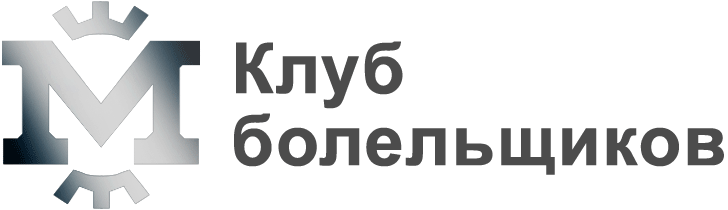
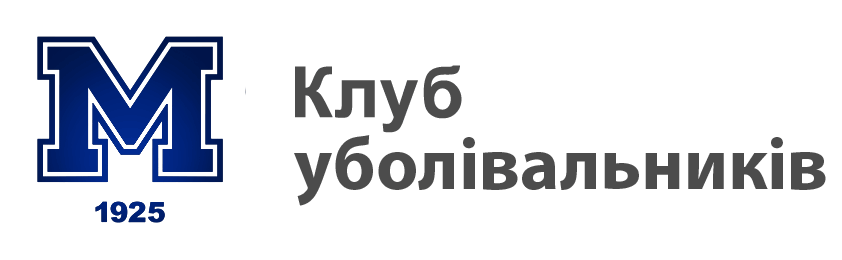
switchStadiumFixNewStyle

Changed region(s): [[0.3022, 0.2, 0.9973, 0.8286], [0.0, 0.0, 0.272, 1.0]]

diff --git a/client/app/home/home.html b/client/app/home/home.html
@@ -1,5 +1,62 @@
 <div class="container">
-  <div class="text-center"><img src="../../assets/images/mxtick.png"></div>
+  <div class="topBigLogo">
+    <svg class="metalistLogo" version="1.1" id="_x31_925" xmlns="http://www.w3.org/2000/svg" xmlns:xlink="http://www.w3.org/1999/xlink" x="0px" y="0px"
+	 viewBox="0 0 172.443 200" enable-background="new 0 0 172.443 200" xml:space="preserve">
+<path id="back" fill="#FFFA16" d="M163.191,17.227l-0.307-0.739l-0.69-0.404C161.07,15.427,134.121,0.015,86.254,0h-0.065
+	C38.323,0.015,11.374,15.427,10.25,16.083l-0.691,0.404l-0.307,0.739C8.874,18.138,0,39.926,0,72.639
+	c0,20.689,4.488,40.258,13.342,58.166c7.074,14.309,16.93,27.581,29.295,39.449c21.023,20.177,41.743,29.18,42.616,29.554
+	L85.701,200h1.042l0.448-0.192c0.872-0.374,21.592-9.377,42.616-29.554c12.364-11.868,22.22-25.141,29.294-39.449
+	c8.853-17.907,13.342-37.477,13.342-58.166C172.443,39.926,163.569,18.138,163.191,17.227z"/>
+<path id="front" fill="#001446" d="M160.995,18.137c0,0-26.978-15.752-74.772-15.759C38.425,2.385,11.449,18.137,11.449,18.137
+	S2.378,40.022,2.378,72.639c0,89.085,83.81,124.983,83.81,124.983h0.066c0,0,83.811-35.897,83.811-124.983
+	C170.065,40.022,160.995,18.137,160.995,18.137z M157.882,20.855c0,0,1.896,4.64,3.918,12.812
+	c-2.481-1.425-5.977-3.271-10.447-5.241c-1.203-5.118-2.38-9.25-3.254-12.093C154.529,18.872,157.882,20.855,157.882,20.855z
+	 M29.435,14.452C41.559,10.26,60.82,5.555,86.221,5.551c-0.011,0-0.021,0-0.031,0h0.063c-0.011,0-0.021,0-0.032,0
+	c25.401,0.004,44.663,4.709,56.786,8.901c0.47,1.475,1.762,5.691,3.229,11.849c-13.625-5.339-33.919-10.789-60.015-10.794
+	c-26.106,0.005-46.405,5.458-60.03,10.8C27.723,19.894,29.054,15.635,29.435,14.452z M14.561,20.855c0,0,3.352-1.983,9.779-4.521
+	c-0.862,2.788-2.049,6.925-3.267,12.1c-4.462,1.967-7.953,3.81-10.431,5.233C12.664,25.495,14.561,20.855,14.561,20.855z
+	 M5.868,73.786c0-13.855,1.663-25.716,3.534-34.677c0.593-0.425,4.222-2.961,10.651-6.11c-2.245,10.622-4.31,24.504-4.31,39.653
+	c0,70.715,42.81,105.89,61.687,117.963C56.607,178.682,5.868,142.55,5.868,73.786z M86.248,193.095h-0.052
+	c0,0-65.861-31.175-65.861-119.274c0-16.751,2.484-32.204,4.872-43.192c13.006-5.62,33.702-11.944,61.009-11.949
+	c27.307,0.005,48.002,6.329,61.008,11.949c2.4,11.042,4.886,26.506,4.886,43.191C152.109,161.92,86.248,193.095,86.248,193.095z
+	 M95.02,190.61c18.88-12.077,61.68-47.251,61.68-117.958c0-15.079-2.068-28.975-4.326-39.654c6.495,3.181,10.132,5.736,10.669,6.123
+	c1.87,8.959,3.532,20.816,3.532,34.666C166.575,142.542,115.848,178.674,95.02,190.61z M136.544,113.71h-34.091V95.192h5.462V70.62
+	L89.98,97.787h-7.517L64.527,70.62v24.573h5.463v18.518H35.898V95.192h6.857V54.475h-6.857V35.958h28.03l22.294,33.767
+	l22.292-33.767h28.03v18.517h-6.857v40.718h6.857V113.71z M105.048,111.115h28.901V97.787h-6.857V51.88h6.857V38.552h-24.039
+	L86.222,74.433l-23.69-35.881h-24.04V51.88h6.857v45.907h-6.857v13.328h28.903V97.787h-5.463V61.982l21.926,33.21h4.725
+	l21.927-33.21v35.805h-5.462V111.115z M153.775,76.479c0.273-6.741,0.361-13.727-0.175-17.442
+	c-1.974-13.678-4.837-29.047-4.837-29.047s-36.592-14.324-62.542-13.556c-25.95-0.768-62.542,13.556-62.542,13.556
+	s-2.863,15.37-4.837,29.047c-0.537,3.715-0.448,10.701-0.175,17.442c-0.306,2.621-0.469,5.286-0.469,7.989
+	c0,22.843,11.261,43.055,28.533,55.391v20.454l11.347,12.352v-26.253c6.608,3.008,13.783,4.989,21.32,5.74v37.77l6.797,3.892
+	l6.852-3.892v-37.77c7.536-0.751,14.71-2.732,21.318-5.739v26.252l11.347-12.352v-20.454c17.272-12.336,28.533-32.548,28.533-55.391
+	C154.245,81.764,154.082,79.1,153.775,76.479z M72.88,140.169h-3.268v-7.75c-0.529,0.401-1.041,0.727-1.535,0.976
+	c-0.495,0.249-1.115,0.486-1.86,0.714v-2.65c1.1-0.354,1.954-0.779,2.562-1.276s1.084-1.11,1.428-1.841h2.673V140.169z
+	 M83.214,138.904c-0.883,0.976-2.108,1.464-3.673,1.464c-0.926,0-1.656-0.107-2.19-0.321c-0.534-0.215-0.979-0.528-1.333-0.94
+	c-0.354-0.412-0.626-0.929-0.816-1.547l3.213-0.405c0.084,0.45,0.227,0.768,0.428,0.953c0.201,0.185,0.447,0.277,0.737,0.277
+	c0.519,0,0.923-0.262,1.215-0.785c0.211-0.387,0.37-1.203,0.475-2.451c-0.386,0.396-0.782,0.687-1.19,0.872
+	c-0.407,0.185-0.877,0.277-1.412,0.277c-1.042,0-1.921-0.369-2.638-1.11c-0.717-0.74-1.075-1.677-1.075-2.809
+	c0-0.771,0.182-1.476,0.547-2.11c0.365-0.634,0.868-1.115,1.508-1.439c0.639-0.325,1.443-0.488,2.412-0.488
+	c1.163,0,2.097,0.2,2.8,0.6s1.265,1.033,1.686,1.903c0.421,0.87,0.631,2.019,0.631,3.447
+	C84.539,136.391,84.097,137.928,83.214,138.904z M94.995,140.169H85.3c0.11-0.956,0.448-1.856,1.011-2.7s1.62-1.84,3.17-2.987
+	c0.946-0.703,1.552-1.238,1.816-1.603c0.264-0.365,0.396-0.711,0.396-1.04c0-0.354-0.131-0.656-0.393-0.907
+	c-0.262-0.252-0.591-0.378-0.988-0.378c-0.412,0-0.75,0.13-1.012,0.39c-0.262,0.259-0.438,0.716-0.526,1.372l-3.237-0.262
+	c0.127-0.909,0.36-1.62,0.697-2.13c0.339-0.511,0.816-0.901,1.433-1.175c0.616-0.271,1.47-0.408,2.559-0.408
+	c1.137,0,2.021,0.13,2.653,0.389c0.633,0.26,1.13,0.657,1.491,1.194c0.362,0.536,0.544,1.139,0.544,1.805
+	c0,0.709-0.207,1.386-0.623,2.031c-0.414,0.646-1.169,1.354-2.265,2.125c-0.65,0.45-1.085,0.765-1.305,0.944
+	s-0.478,0.416-0.773,0.706h5.046V140.169z M105.667,138.233c-0.373,0.693-0.901,1.223-1.586,1.587
+	c-0.687,0.365-1.563,0.548-2.631,0.548c-0.767,0-1.424-0.073-1.971-0.219c-0.548-0.145-1.013-0.361-1.396-0.65
+	c-0.384-0.288-0.694-0.615-0.933-0.979c-0.237-0.365-0.437-0.819-0.595-1.365l3.269-0.356c0.08,0.523,0.265,0.922,0.555,1.194
+	c0.292,0.271,0.638,0.408,1.04,0.408c0.449,0,0.82-0.171,1.114-0.512c0.293-0.342,0.44-0.85,0.44-1.527
+	c0-0.692-0.147-1.2-0.444-1.523c-0.296-0.322-0.689-0.483-1.183-0.483c-0.312,0-0.612,0.076-0.904,0.23
+	c-0.217,0.11-0.454,0.312-0.713,0.603l-2.754-0.396l1.023-6.252h7.672v2.578h-5.196l-0.277,1.745
+	c0.359-0.168,0.715-0.296,1.067-0.381c0.351-0.084,0.699-0.126,1.043-0.126c1.163,0,2.107,0.351,2.832,1.055
+	c0.725,0.703,1.087,1.589,1.087,2.657C106.226,136.819,106.04,137.541,105.667,138.233z M139.787,57.717h-6.857V91.95h6.857v25.002
+	H99.21V91.95h5.463V81.417l-12.949,19.612H80.718L67.77,81.417V91.95h5.463v25.002H32.656V91.95h6.857V57.717h-6.857V32.715h33.017
+	l20.549,31.124l20.548-31.124h33.017V57.717z M80.675,130.892c0.317,0.356,0.476,0.85,0.476,1.479c0,0.618-0.151,1.095-0.453,1.429
+	c-0.301,0.332-0.68,0.499-1.134,0.499c-0.439,0-0.806-0.172-1.099-0.516c-0.294-0.344-0.441-0.841-0.441-1.491
+	c0-0.646,0.142-1.129,0.425-1.452c0.283-0.322,0.639-0.483,1.067-0.483C79.972,130.356,80.357,130.534,80.675,130.892z"/>
+</svg>
+  </div>
   <h4 class="page-header">Следующие матчи</h4>
   <div class="row">
     <div class="matches">

diff --git a/client/app/match-details/match-details.html b/client/app/match-details/match-details.html
@@ -1,7 +1,14 @@
 <div class="col-xs-4 matchDate"><h3 style="text-align: left; font-weight: bold">
   {{ $ctrl.matchDetails.formattedDate }}<br>{{ $ctrl.matchDetails.time }}</h3></div>
 <div class="col-xs-4 matchRival" style="text-align: center"><h3>Металлист 1925<br>{{ $ctrl.matchDetails.rival }}</h3></div>
-<div class="col-xs-4 address" style="text-align: right"><span>Стадион Металлист<br>ул. Плехановская, 65</span>
+<div ng-show = "$ctrl.matchDetails.priceSchema.priceSchema.stadiumName == 'solar'" class="col-xs-4 address" style="text-align: right"><span>Стадион Солнечный<br>Пятихатки,</span>
+    <br>  Белгородское шоссе
+</div>
+<div ng-show = "$ctrl.matchDetails.priceSchema.priceSchema.stadiumName == 'dinamo'" class="col-xs-4 address" style="text-align: right"><span>Стадион Динамо<br>ул. Динамовская, 3</span>
+  <br><span class="fa fa-subway" uib-popover="Станция метро" popover-trigger="'mouseenter'"
+            popover-placement="left"></span> Научная
+</div>
+<div ng-show = "$ctrl.matchDetails.priceSchema.priceSchema.stadiumName == 'metalist'" class="col-xs-4 address" style="text-align: right"><span>Стадион Металлист<br>ул. Плехановская, 65</span>
   <br><span class="fa fa-subway" uib-popover="Станция метро" popover-trigger="'mouseenter'"
             popover-placement="left"></span> Спортивная / Метростроителей
 </div>

diff --git a/client/app/home/home.less b/client/app/home/home.less
@@ -1,3 +1,56 @@
+/*NEW LOGO*/
+
+@bgForLogo: url(../../assets/images/mxtick.jpg);
+
+@media all and (orientation: portrait) {
+  .topBigLogo {
+    background: @bgForLogo;
+    min-width: 280px;
+    max-width: 900px;
+    height: 150px;
+    line-height: 150px;
+    background-size: cover;
+    text-align: center;
+    & .metalistLogo {
+      height: 60%;
+      vertical-align: middle;
+    }
+  }
+}
+
+@media all and (orientation: landscape) {
+  .topBigLogo {
+    background: @bgForLogo;
+    max-width: 930px;
+    min-width: 530px;
+    height: 260px;
+    line-height: 260px;
+    background-size: cover;
+    text-align: center;
+    & .metalistLogo {
+      height: 60%;
+      vertical-align: middle;
+    }
+  }
+}
+
+.metalistLogo {
+  width: auto;
+}
+
+.metalistLogo:hover {
+  -webkit-filter: drop-shadow(0px 8px 8 pxx rgba(0, 0, 0, .9));
+  filter: drop-shadow(0px 8px 8px rgba(0, 0, 0, .9));
+  -moz-transform: scale(1.02);
+  -webkit-transform: scale(1.02);
+  transform: scale(1.02);
+  transition: 0.3s;
+  -moz-transition: all 0.3s;
+  -webkit-transition: all 0.3s;
+}
+
+/*NEW LOGO*/
+
 .page-header {
   text-align: center;
 }

diff --git a/client/app/footer/footer.html b/client/app/footer/footer.html
@@ -2,6 +2,11 @@
   <a href="http://metalist1925.com/" target="_blank" title="Официальный сайт Металлист 1925"><img src="../../assets/images/offmetal.png"/></a>
   <a href="http://metalist1925.com/mem_club/about.php" target="_blank" title="Клуб болельщиков Металлист 1925" ><img src="../../assets/images/memclub.png"/></a>
 </div>
+<div class="sponsors">
+  <h4>Спонсори:</h4>
+  <a href="http://it.errea.com" target="_blank" title="Технічний спонсор"><img src="../../assets/images/errea_logo-orizzontale.png"/></a>
+  <a href="https://novoabrasive.com" target="_blank" title="Стратегічний спонсор"><img src="../../assets/images/novo_abraziv.png"/></a>
+</div>
 <div class="container">
   <address>
     Свои замечания и пожелания по улучшению сервиса онлайн-продажи билетов просьба направлять на почту<br>

diff --git a/client/app/stadium/stadium.html b/client/app/stadium/stadium.html
@@ -1397,7 +1397,7 @@
     <div id="mainContent">
      <div class="row">
       <div class="sectorsList span8">
-       <h2>Посадка на секторе свободная. </h2> <br>
+       <h2>Трибуна западная. Посадка на секторе свободная. </h2> <br>
        <h2>Цена билета - 30 грн</h2>
        <div ng-click="$ctrl.onSectorClick($event, 'west', '1')">
         <img src="../../assets/images/stadiumSolar.jpg" alt="..." style="cursor:pointer;" >

diff --git a/client/app/footer/footer.less b/client/app/footer/footer.less
@@ -29,3 +29,11 @@ address {
   width: 100%;
   padding: 20px 0 0 0;
 }
+
+.sponsors {
+  margin: 20px 0 0 0;
+  & img {
+    width: 70px;
+    padding: 0 20px 20px 0;
+  }
+}
